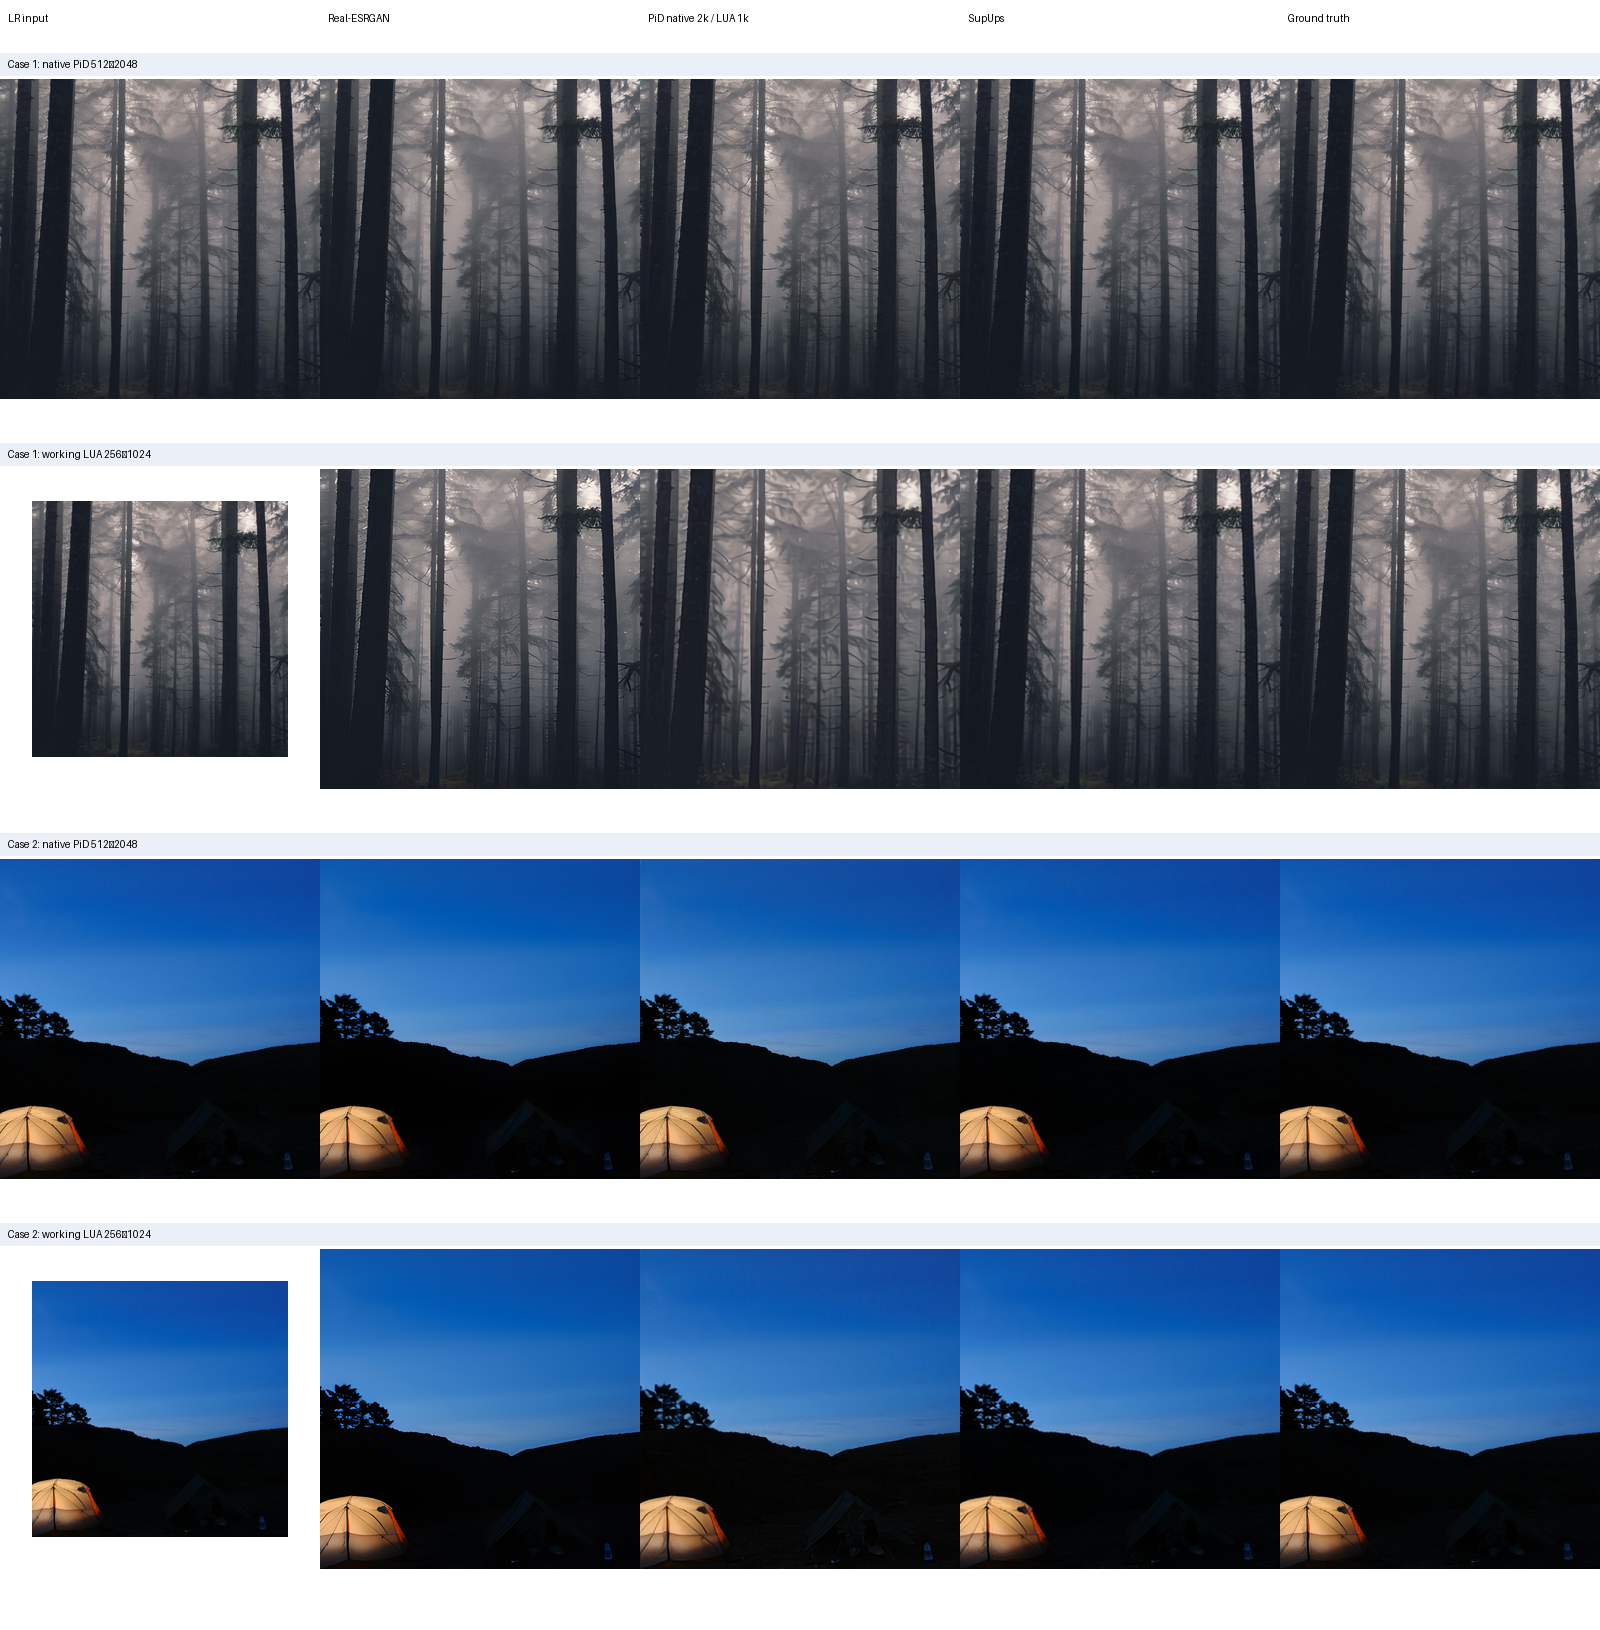
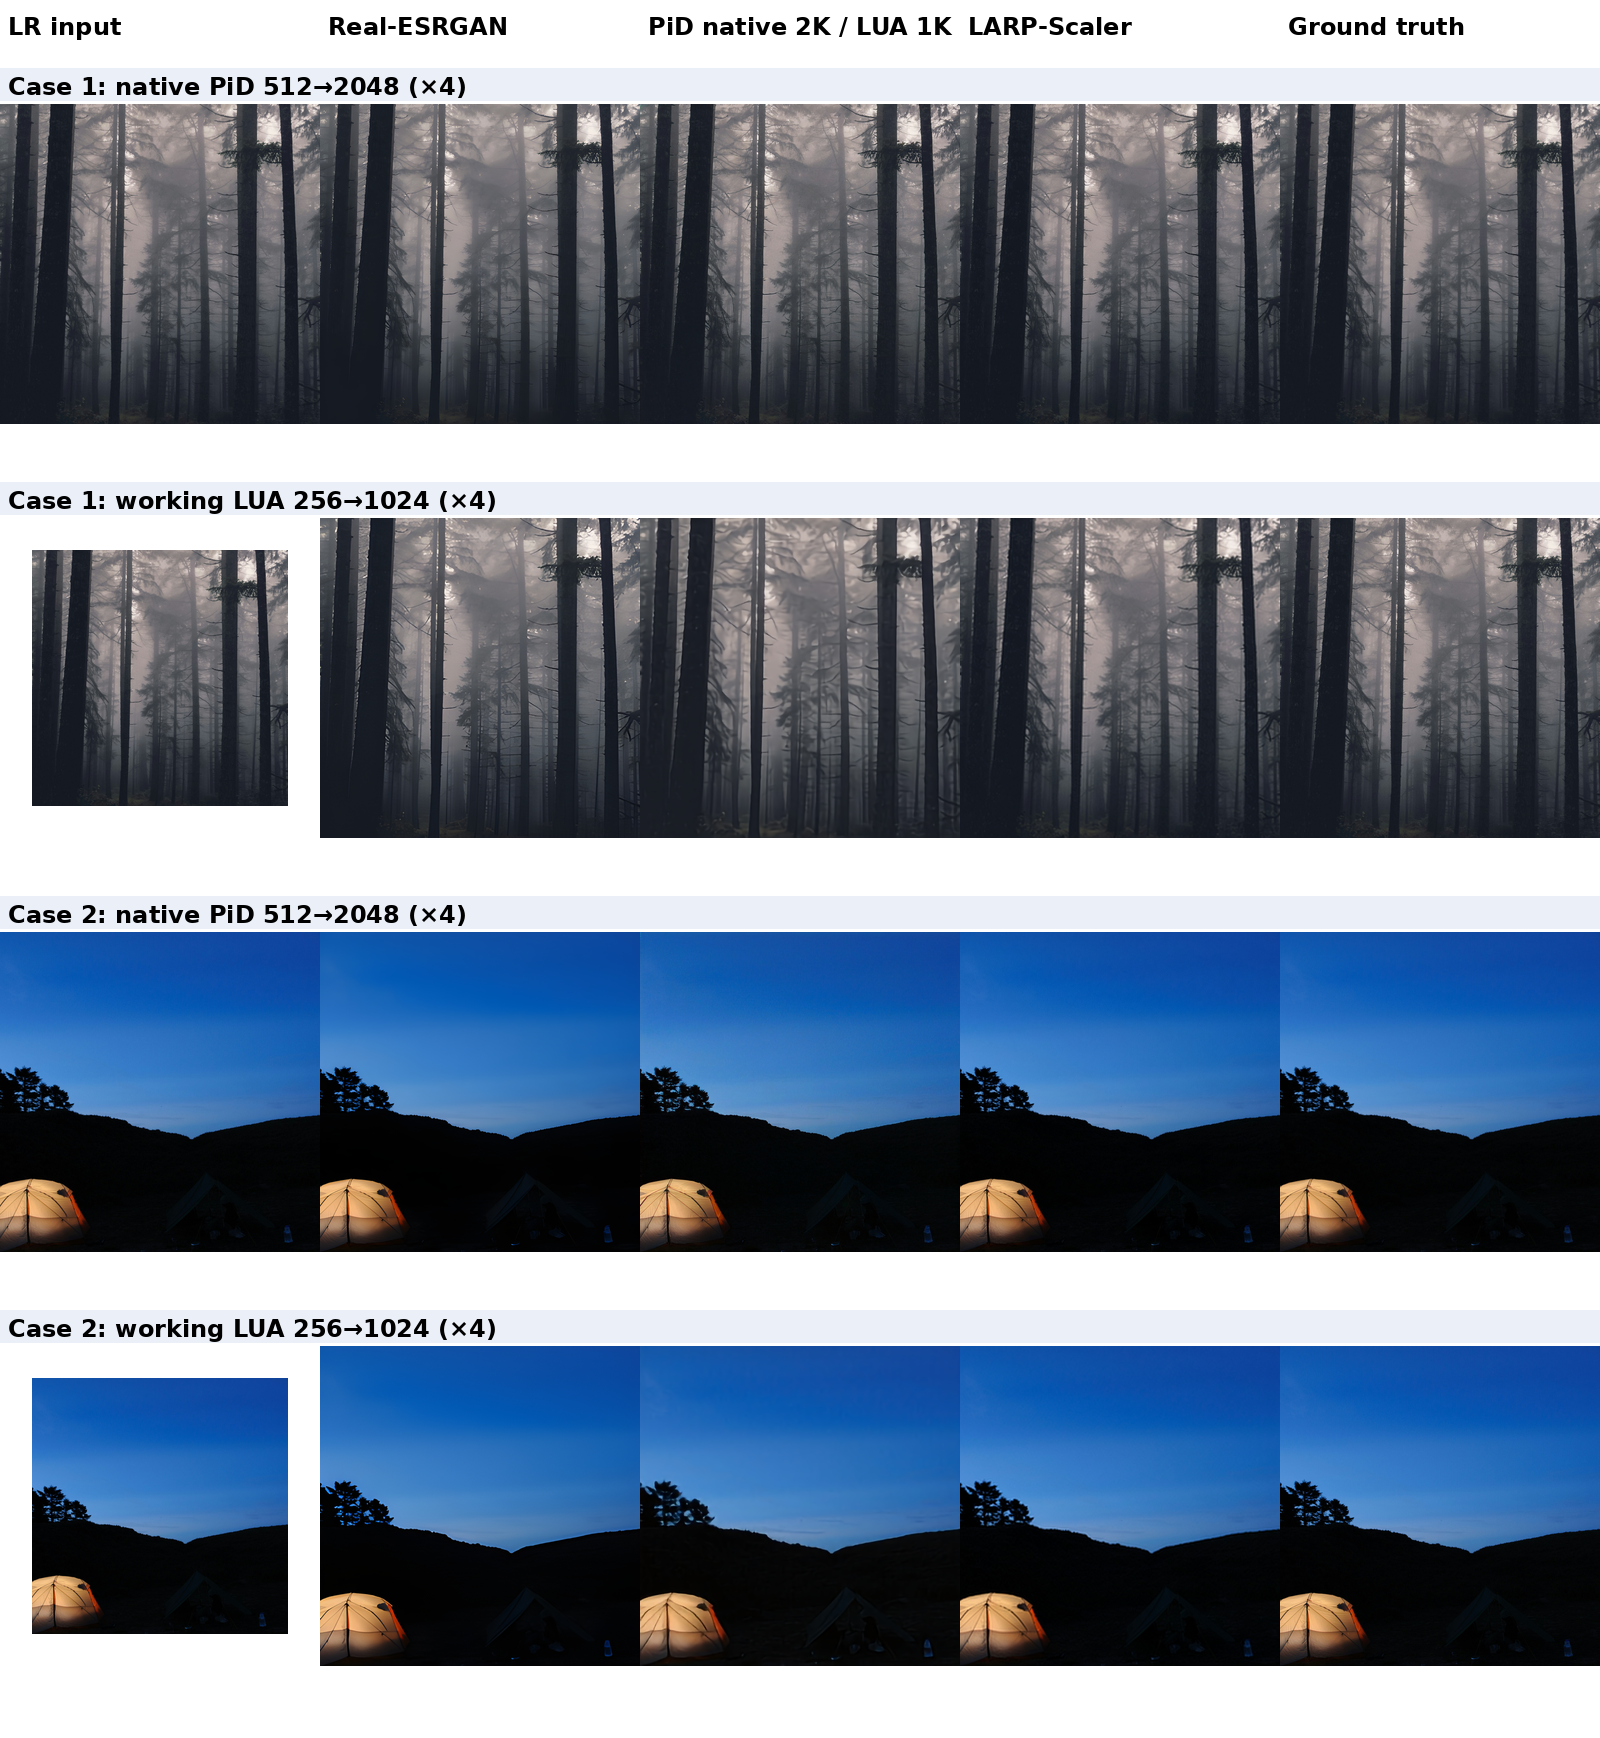
fix: images

diff --git a/paper/main.tex b/paper/main.tex
@@ -46,6 +46,15 @@
 
 \begin{figure*}[t]
   \centering
+  \includegraphics[width=\textwidth]{figures/larp_before_after_hero.png}
+  \caption{\textbf{LARP-Scaler image upscaling.} A real $512\times512$ input
+  (left) and the $2048\times2048$ output of the released $4\times$
+  LARP-Scaler checkpoint (right).}
+  \label{fig:larp_before_after}
+\end{figure*}
+
+\begin{figure*}[t]
+  \centering
   \includegraphics[width=\textwidth]{figures/pid_lua_image_upscale_examples.png}
   \caption{\textbf{Image-upscaling examples in valid operating regimes.}
   Native PiD is evaluated at $512\!\to\!2048$, while LUA-FLUX with the Flux

diff --git a/README.md b/README.md
@@ -8,10 +8,14 @@
 [![License](https://img.shields.io/badge/code%20license-Apache--2.0-blue)](LICENSE)
 
 <p align="center">
+  <img src="paper/figures/larp_before_after_hero.png" width="100%" alt="LARP-Scaler before and after: a 512 by 512 real photo input and a LARP-Scaler 4x 2048 by 2048 output.">
+</p>
+
+<p align="center">
   <img src="paper/figures/pid_lua_image_upscale_examples.png" width="100%" alt="Image-upscaling examples: native PiD at 512 to 2048 pixels and LUA-FLUX at 256 to 1024 pixels, compared with Real-ESRGAN, LARP-Scaler, and ground truth.">
 </p>
 
-The examples above use two separately valid image-upscaling protocols: native
+The multi-method comparison above uses two separately valid image-upscaling protocols: native
 PiD operates at **512→2048**, while LUA-FLUX with the Flux VAE operates at
 **256→1024**. They are visual examples rather than a shared metric ranking
 across the two resolutions.
